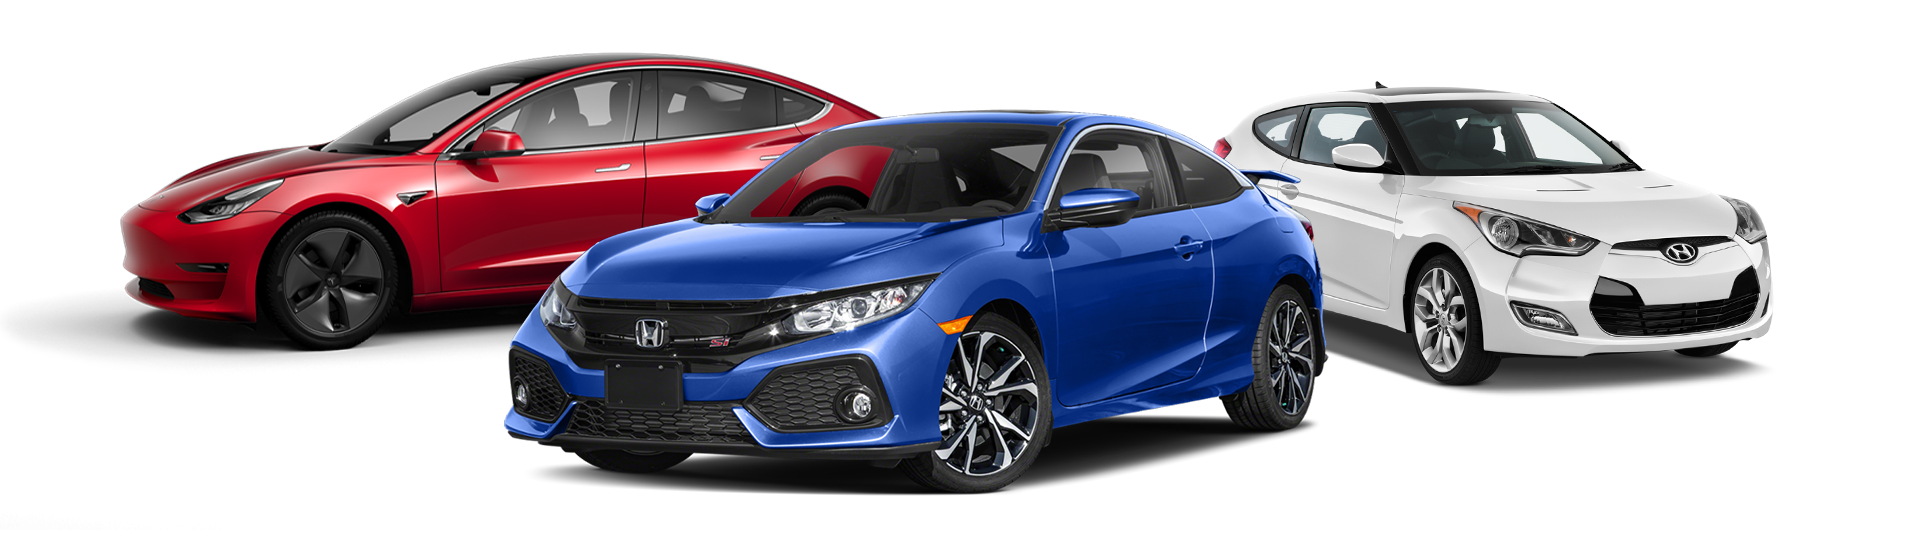
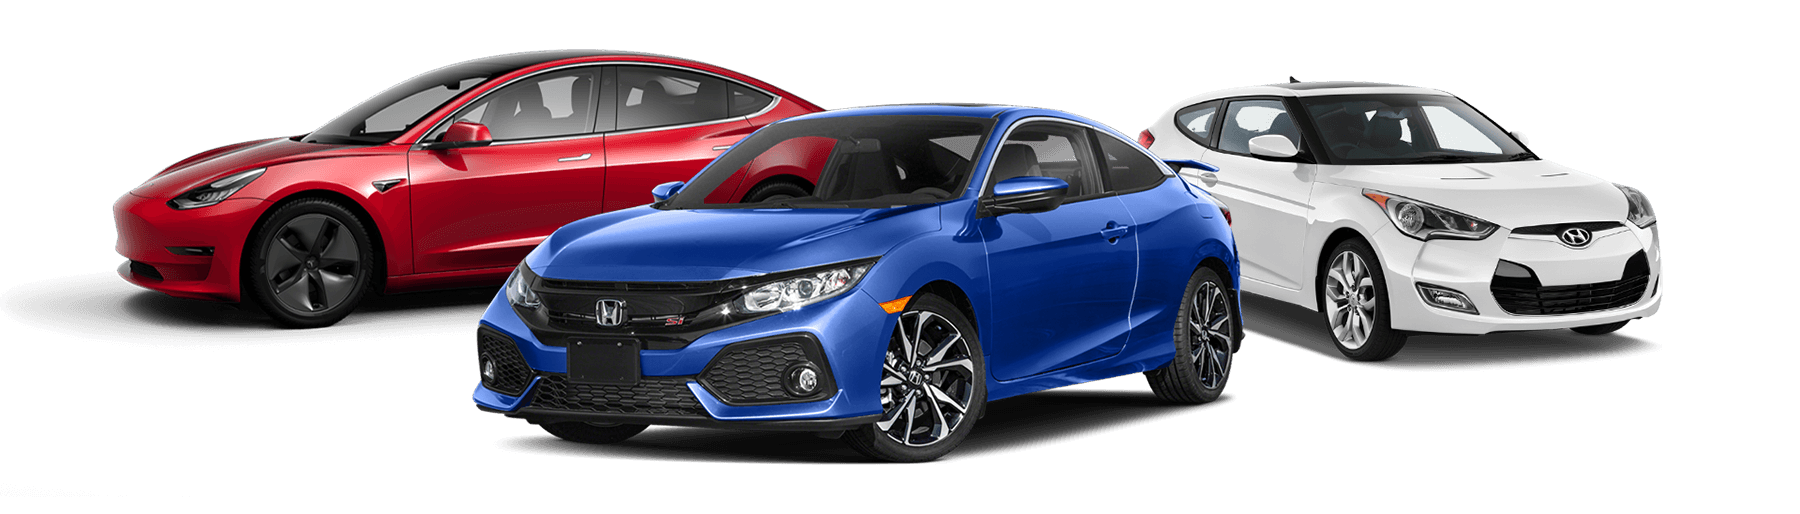
Optimized Images, Resume Updates

Changed region(s): [[0.4978, 0.8405, 0.5289, 0.8716], [0.4978, 0.7471, 0.5289, 0.7782]]

diff --git a/src/components/Resume.js b/src/components/Resume.js
@@ -194,9 +194,12 @@ const Resume = () => {
                       <li>HTML</li>
                       <li>Bootstrap</li>
                       <li>CSS / SCSS</li>
-                      <li>JavaScript</li>
+                      <li>JavaScript (ES6+)</li>
                       <li id="indent">React</li>
                       <li id="indent">React Native</li>
+                      <li>Node</li>
+                      <li>Express</li>
+                      <li>MongoDB</li>
                     </ul>
                   </div>
                 </div>
@@ -229,10 +232,11 @@ const Resume = () => {
                   <div className="skills-list">
                     <ul>
                       <li>VS Code</li>
-                      <li>Design Thinking</li>
                       <li>Agile</li>
                       <li id="indent">Jira</li>
                       <li id="indent">Confluence</li>
+                      <li id="indent">Notion</li>
+                      <li>Design Thinking</li>
                     </ul>
                   </div>
                 </div>
